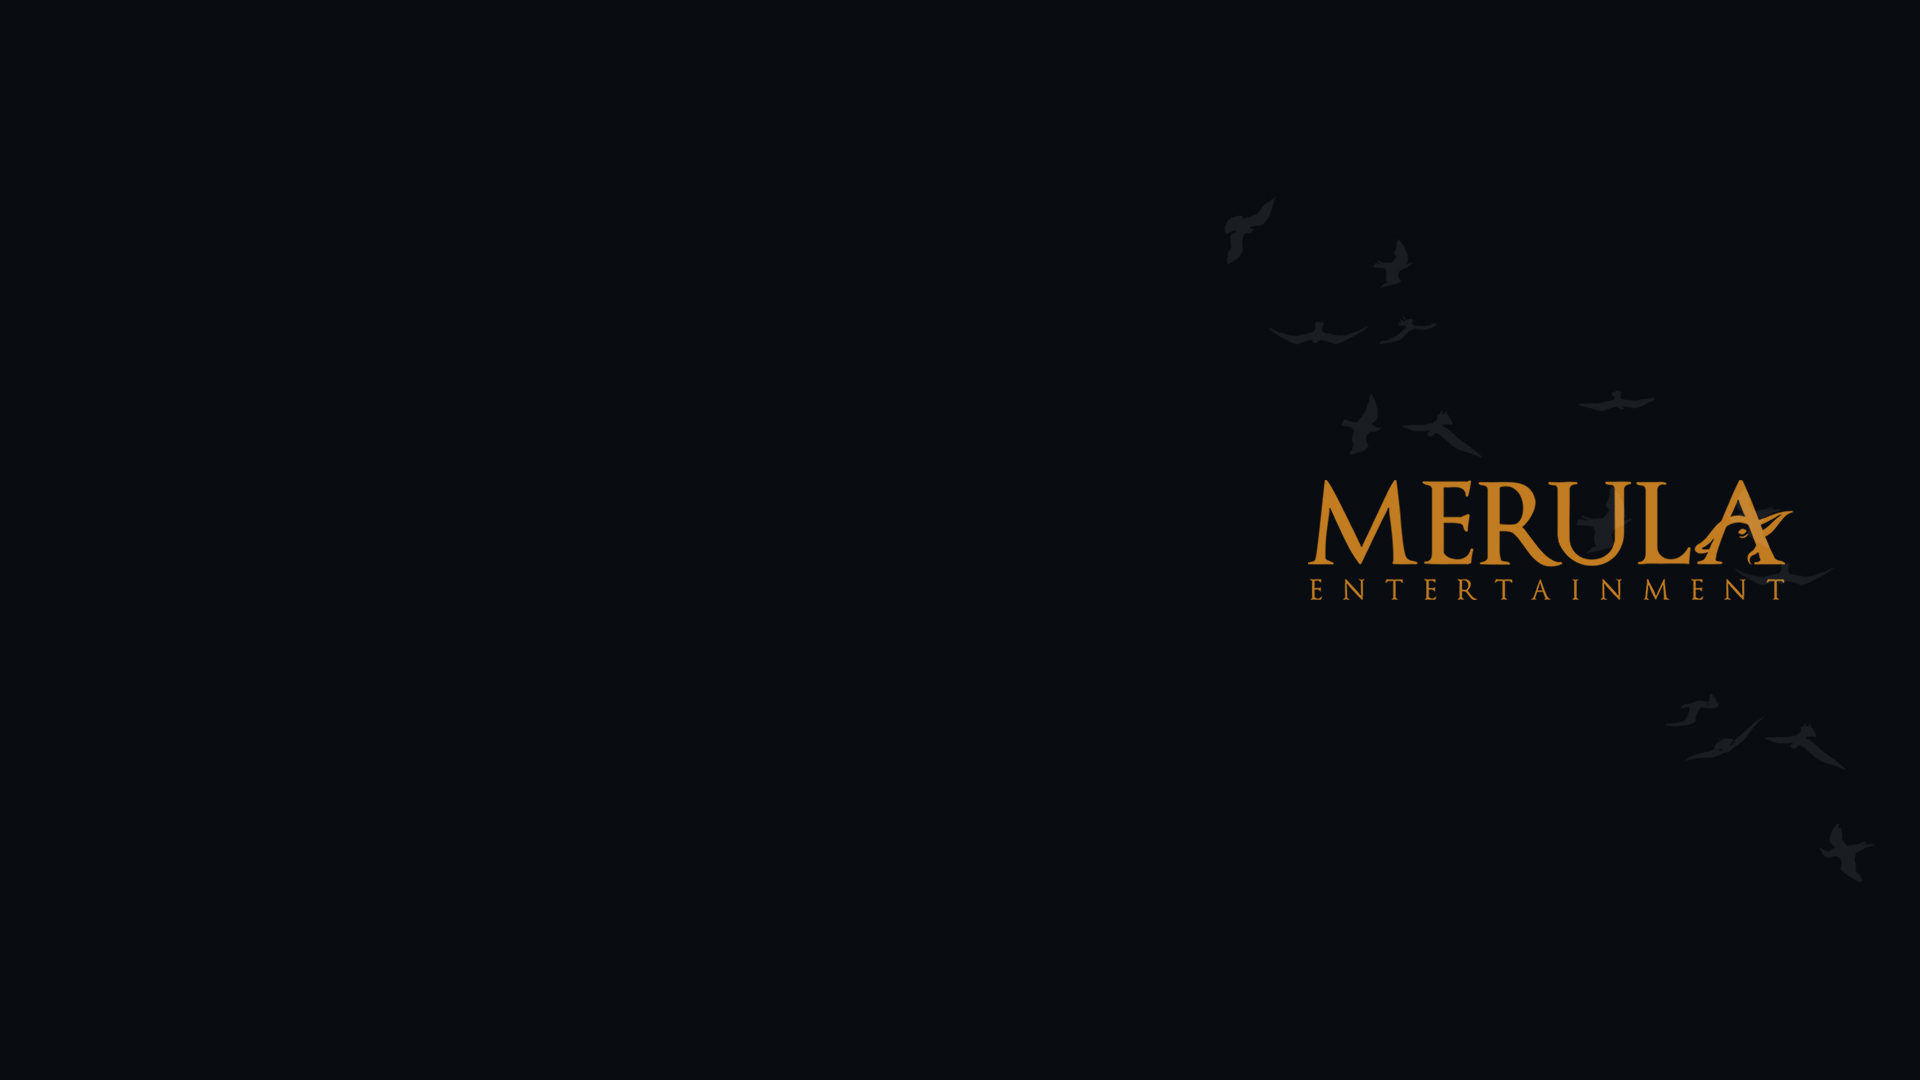
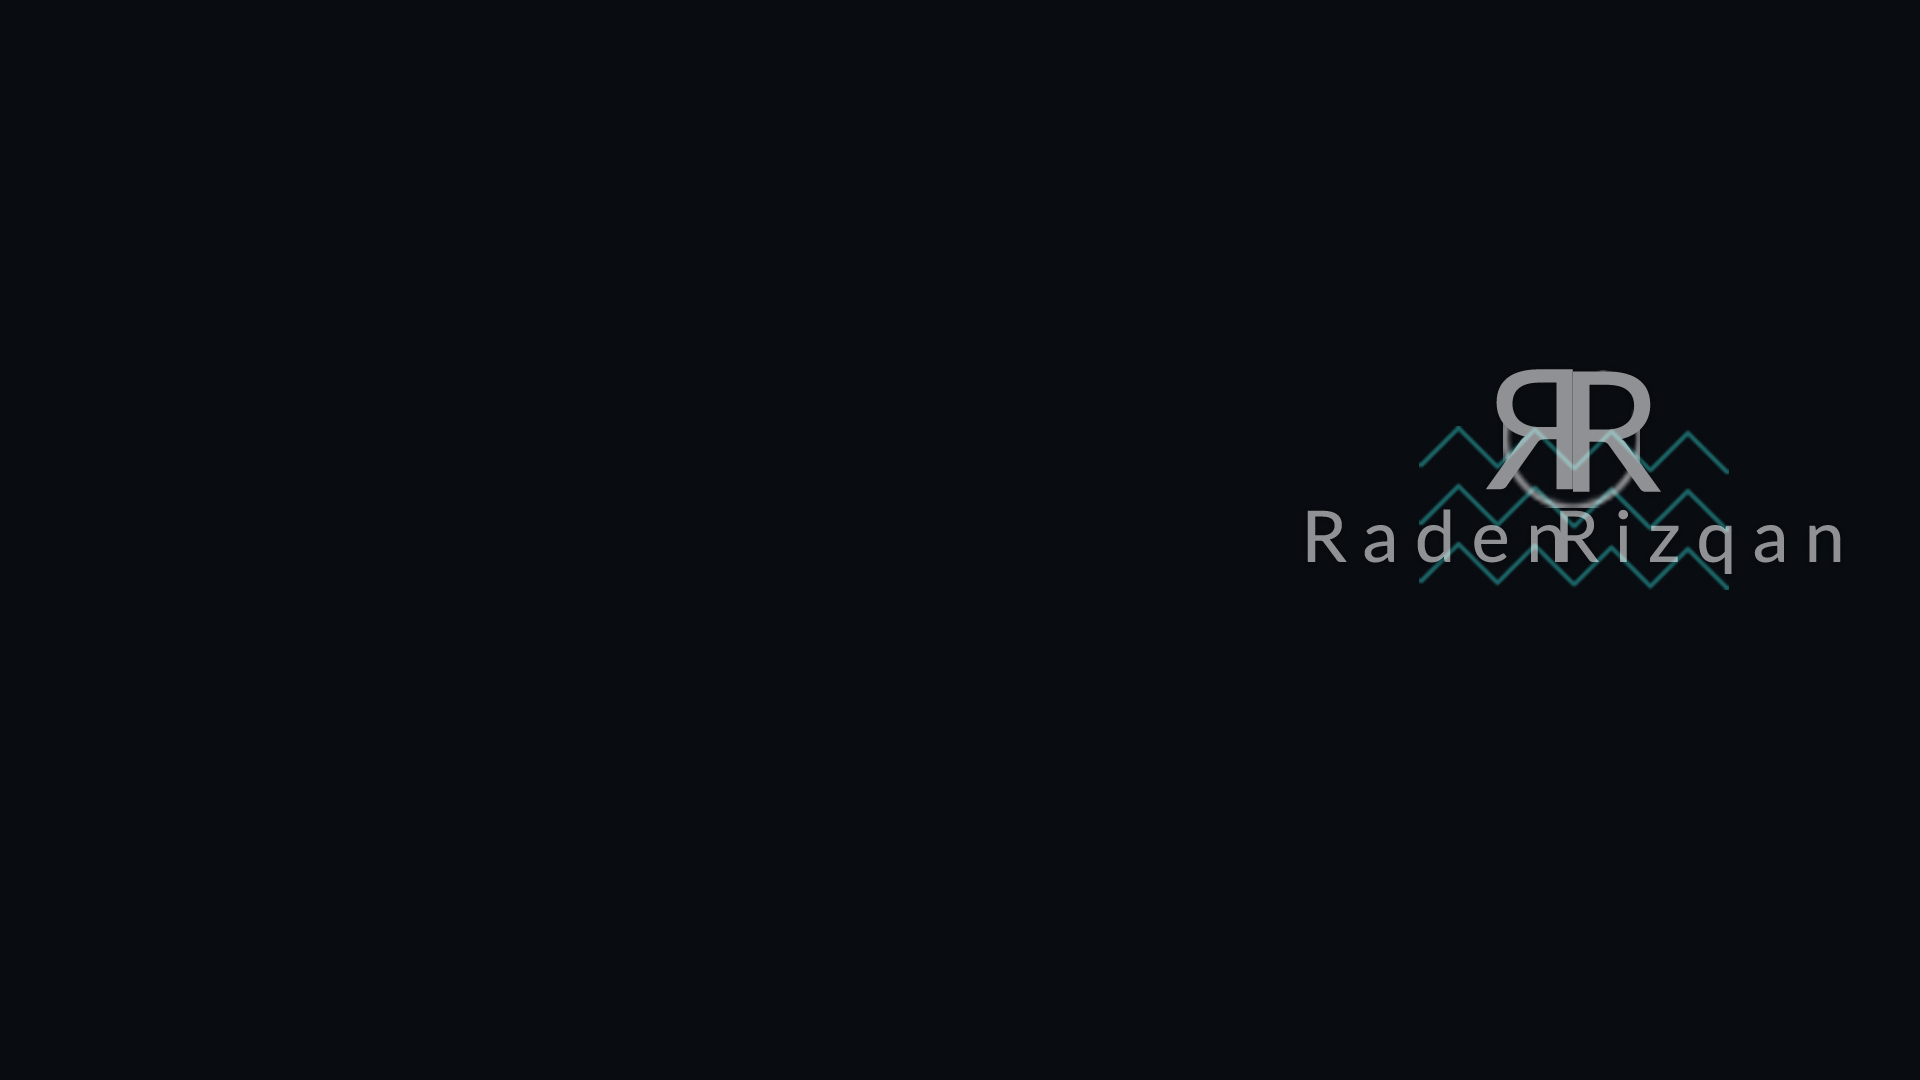
fixyow

Changed region(s): [[0.6562, 0.3361, 0.9688, 0.55]]

diff --git a/assets/css/style.css b/assets/css/style.css
@@ -69,7 +69,7 @@ h2 {
 	font-weight: bold;
 	font-family: 'Lato', serif;
 	color: blue;
-    text-shadow: 2px 2px #c27c21;
+    text-shadow: 2px 2px #249494;
 }
 h3 {
 	font-size: 30px;
@@ -97,7 +97,7 @@ h7 {
 h8 {
 	font-size: 14px;
 	font-style:;
-	color: #c27c21;
+	color: #249494;
 	font-family: 'Lato', serif;
 	line-height: 2em;
 }
@@ -190,14 +190,14 @@ section {
 	border-color: #272727;
 }
 .btn:hover {
-	background: #c27c21;
+	background: #249494;
 	color: #fff;
-	border-color: #c27c21;
+	border-color: #249494;
 }
 .btn-1 {
-	background: #c27c21;
+	background: #249494;
 	color: #fff;
-	border: 1px solid #c27c21;
+	border: 1px solid #249494;
 }
 .btn-1:hover {
 	background: none;
@@ -554,7 +554,7 @@ header nav .ownmenu li {
 	padding: 0 15px;
 }
 header nav li a:hover {
-	color: #c27c21;
+	color: #249494;
 }
 header .ownmenu ul.dropdown {
 	padding-bottom: 0px;
@@ -967,7 +967,11 @@ header .ownmenu .look-book .media-body a {
 	background-size: cover;
 }
 .home-6-style #sec-4 {
-	background: url(../images/bg/bg1.jpg) fixed no-repeat;
+	background: url(../images/bg/bg4.jpg) fixed no-repeat;
+	background-size: cover;
+}
+.home-6-style #sec-6 {
+	background: url(../images/bg/bg2.jpg) fixed no-repeat;
 	background-size: cover;
 }
 .home-6-style .content .huge-txt {
@@ -2027,7 +2031,7 @@ header .ownmenu .look-book .media-body a {
 	height: 100%;
 	width: 100%;
 	padding: 30px;
-	background: rgba(175,88,117,0.9);
+	background: #249494;
 	opacity: 0;
 	text-align: center;
 	-webkit-transition: all 0.4s ease-in-out;
@@ -2058,7 +2062,7 @@ header .ownmenu .look-book .media-body a {
 	margin: 0 5px;
 }
 .port-folio-row li .hover-port a:hover {
-	background: rgba(175,88,117,1);
+	background: #1c2833;
 	color: #fff;
 }
 .portfolio-defult h6 {
@@ -3709,7 +3713,7 @@ footer .flicker img {
 .tittle-cont hr {
 	width: 80px;
 	height: 16px;
-	background: #ffc000;
+	background: #249494;
 	-webkit-transform: skew(-40deg);
 	-moz-transform: skew(-40deg);
 	-o-transform: skew(-40deg);
@@ -4436,18 +4440,18 @@ footer .flicker img {
 	border: none;
 	margin: 0px;
 	background: none;
-	color: #af5875;
-	border-bottom: 2px solid #af5875;
+	color: #249494;
+	border-bottom: 2px solid #249494;
 }
 .portfolio .filter-style-2 a.active {
 	border: none;
-	border-bottom: 2px solid #af5875;
-	color: #af5875;
+	border-bottom: 2px solid #249494;
+	color: #249494;
 }
 .portfolio .filter-style-2 li a:hover {
 	border: none;
-	color: #af5875;
-	border-bottom: 2px solid #af5875;
+	color: #249494;
+	border-bottom: 2px solid #249494;
 }
 /*=======================================================
       TEAM
@@ -6015,12 +6019,12 @@ input:focus {
 	position: fixed;
 	bottom: 40px;
 	right: 40px;
-	color: #c27c21;
+	color: #249494;
 	border-radius: 4px;
 	font-size: 26px;
 	text-align: center;
 	line-height: 40px;
-	border:3px solid #c27c21;
+	border:3px solid #249494;
 	box-shadow: 0 0 10px rgba(0, 0, 0, 0.05);
 	overflow: hidden;
 	white-space: nowrap;
@@ -6049,8 +6053,8 @@ input:focus {
 	opacity: .5;
 }
 .no-touch .cd-top:hover {
-	background-color: #c27c21;
-	background-color: #c27c21;
+	background-color: #249494;
+	background-color: #249494;
 	opacity: 1;
 	color: #fff;
 }

diff --git a/assets/css/main.css b/assets/css/main.css
@@ -28,7 +28,7 @@
 }
 .ball {
 	border-radius: 50%;
-	background: #c27c21;
+	background: #249494;
 	width: 10px;
 	height: 10px;
 	position: absolute;

diff --git a/application/views/layout/content.php b/application/views/layout/content.php
@@ -4,7 +4,7 @@
       <div class="container">
         <div class="position-center-center">
         <div class=" animate fadeInUp" data-wow-delay="0.4s">
-        <div class="tp-caption customin font-playfair tp-resizeme rs-parallaxlevel-4" style="color: #fff; font-size: 80px; font-style:italic; text-shadow: 2px 2px #c27c21;"> 
+        <div class="tp-caption customin font-playfair tp-resizeme rs-parallaxlevel-4" style="color: #fff; font-size: 80px; font-style:italic; text-shadow: 2px 2px #249494;"> 
         Raden Rizqan Fadhilah 
         </div>
         <h1>UI/UX Designer & Front-end Web Developer</h1>
@@ -37,7 +37,7 @@
             </div>
           
           <!-- Image -->
-          <div class="col-sm-5  animate fadeInRight" data-wow-delay="0.4s"> <img class="img-responsive" src="assets/images/cobacobi.jpg" alt="" > </div>
+          <div class="col-sm-5  animate fadeInRight" data-wow-delay="0.4s"> <img class="img-responsive" src="assets/images/candil.png" alt="" > </div>
         </div>
       </div>
     </section>
@@ -59,7 +59,7 @@
           
           <!-- Slider 1 -->
           <div class="testi">
-            <div class="avatar"> <img src="assets/images/avatar-9.jpg" alt=""> </div>
+            <div class="avatar"> <img src="assets/images/avafinnet.jpg" alt=""> </div>
 			      <h1>Web Developer Internship </h1>
             <p class="posi">PT. Finnet Indonesia</p>
             <b>
@@ -74,7 +74,7 @@
           
           <!-- Slider 2 -->
           <div class="testi">
-          <div class="avatar"> <img src="assets/images/avatar-9.jpg" alt=""> </div>
+          <div class="avatar"> <img src="assets/images/avatelc.jpg" alt=""> </div>
           <h1>Laboratory assistant </h1>
           <p class="posi">TEL-C Laboratory, Telkom University</p>
           <b>
@@ -89,7 +89,7 @@
           
           <!-- Slider 3 -->
           <div class="testi">
-          <div class="avatar"> <img src="assets/images/avatar-9.jpg" alt=""> </div>
+          <div class="avatar"> <img src="assets/images/avaico.jpg" alt=""> </div>
           <h1>Student Volunteer Committee</h1>
           <p class="posi">ICoICT 2016</p>
           <b>
@@ -98,7 +98,7 @@
 </b> 
         </div>
         <div class="testi">
-          <div class="avatar"> <img src="assets/images/avatar-9.jpg" alt=""> </div>
+          <div class="avatar"> <img src="assets/images/avadies.jpg" alt=""> </div>
           <h1>Event organizer</h1>
           <p class="posi">DiesNatalis Informatika 2K16</p>
           <b>
@@ -124,29 +124,29 @@
       <ul>
         
         <!--  Item 1 -->
-         <li class="animate fadeInLeft" data-wow-delay="0.6s"> <img src="assets/images/look-img-5.jpg">
+         <li class="animate fadeInLeft" data-wow-delay="0.6s"> <img src="assets/images/kiri.jpg">
           
         </li>
         <!--  Item 2 -->
-        <li class="animate fadeInLeft" data-wow-delay="0.6s"> <img src="assets/images/look-img-2.jpg" alt="" >
+        <li class="animate fadeInLeft" data-wow-delay="0.6s"> <img src="assets/images/smp7.jpg" alt="" >
           <div class="inn-look"> <a href="#.">JUNIOR HIGH SCHOOL</a>
             <hr>2008-2011
             <span>SMP Negeri 7<br> Bandung</span> </div>
         </li>
         <!--  Item 3 -->
-        <li class="animate fadeInUp" data-wow-delay="0.8s"> <img src="assets/images/look-img-3.jpg" alt="" >
+        <li class="animate fadeInUp" data-wow-delay="0.8s"> <img src="assets/images/smunda.jpg" alt="" >
         <div class="inn-look"> <a href="#.">SENIOR HIGH SCHOOL</a>
         <hr>2011-2014
         <span>SMA Negeri 2 <br>Bandung</span> </div>
         </li>
         <!--  Item 4 -->
-        <li class="animate fadeInRight" data-wow-delay="0.4s"> <img src="assets/images/look-img-4.jpg" alt="" >
+        <li class="animate fadeInRight" data-wow-delay="0.4s"> <img src="assets/images/telu.jpg" alt="" >
         <div class="inn-look"> <a href="#.">BACHELOR <br>DEGREE</a>
         <hr>2014-2018
         <span>INFORMATICS<br>Telkom University</span> </div>
         </li>
         <!--  Item 5 -->
-        <li class="animate fadeInRight" data-wow-delay="0.6s"> <img src="assets/images/look-img-5.jpg" alt="" > 
+        <li class="animate fadeInRight" data-wow-delay="0.6s"> <img src="assets/images/kanan.jpg" alt="" > 
         </li>
       </ul>
     </section>
@@ -175,95 +175,95 @@
         <ul class="port-folio-row row col-3 items  animate fadeInUp" data-wow-delay="0.4s">
           
           <!-- Project 1 -->
-          <li class="item int plumb col-sm-3"> <img src="assets/images/construction/project-img-1.jpg" alt=""> 
+          <li class="item int col-sm-3"> <img src="assets/images/dribbble.jpg" alt=""> 
             <!-- Hover Info -->
             <div class="hover-port">
               <div class="position-center-center">
-                <h5>GREEN HOUSE</h5>
+                <h5>Splash Screen.</h5>
                 <hr>
-                <a href="assets/images/construction/project-img-1.jpg" data-lighter><i class="fa fa-search"></i></a> <a href="#."><i class="fa fa-link"></i></a> </div>
+                <a href="assets/images/dribbble.jpg" data-lighter><i class="fa fa-search"></i></a></div>
             </div>
           </li>
           
           <!-- Project 1 -->
-          <li class="item  plumb col-sm-3"> <img src="assets/images/construction/project-img-2.jpg" alt=""> 
+          <li class="item build col-sm-3"> <img src="assets/images/bdg.jpg" alt=""> 
             <!-- Hover Info -->
             <div class="hover-port">
               <div class="position-center-center">
-                <h5>GREEN HOUSE</h5>
+                <h5>Bandungku.</h5>
                 <hr>
-                <a href="assets/images/construction/project-img-2.jpg" data-lighter><i class="fa fa-search"></i></a> <a href="#."><i class="fa fa-link"></i></a> </div>
+                <a href="assets/images/bdg.jpg" data-lighter><i class="fa fa-search"></i></a></div>
             </div>
           </li>
           
           <!-- Project 1 -->
-          <li class="item int plumb col-sm-3"> <img src="assets/images/construction/project-img-3.jpg" alt=""> 
+          <li class="item int col-sm-3"> <img src="assets/images/signup.jpg" alt=""> 
             <!-- Hover Info -->
             <div class="hover-port">
               <div class="position-center-center">
-                <h5>GREEN HOUSE</h5>
+                <h5>SignUp Page.</h5>
                 <hr>
-                <a href="assets/images/construction/project-img-3.jpg" data-lighter><i class="fa fa-search"></i></a> <a href="#."><i class="fa fa-link"></i></a> </div>
+                <a href="assets/images/signup.jpg" data-lighter><i class="fa fa-search"></i></a> </div>
             </div>
           </li>
           
           <!-- Project 1 -->
-          <li class="item  build plumb col-sm-3"> <img src="assets/images/construction/project-img-4.jpg" alt=""> 
+          <li class="item  build col-sm-3"> <img src="assets/images/kuda.jpg" alt=""> 
             <!-- Hover Info -->
             <div class="hover-port">
               <div class="position-center-center">
-                <h5>GREEN HOUSE</h5>
+                <h5>Pagi itu di Yogyakarta.</h5>
                 <hr>
-                <a href="assets/images/construction/project-img-4.jpg" data-lighter><i class="fa fa-search"></i></a> <a href="#."><i class="fa fa-link"></i></a> </div>
+                <a href="assets/images/kuda.jpg" data-lighter><i class="fa fa-search"></i></a> </div>
             </div>
           </li>
           
           <!-- Project 1 -->
-          <li class="item int arch  col-sm-3"> <img src="assets/images/construction/project-img-5.jpg" alt=""> 
+          <li class="item int col-sm-3"> <img src="assets/images/inditkeun.jpg" alt=""> 
             <!-- Hover Info -->
             <div class="hover-port">
               <div class="position-center-center">
-                <h5>GREEN HOUSE</h5>
+                <h5>Inditkeun App.</h5>
                 <hr>
-                <a href="assets/images/construction/project-img-5.jpg" data-lighter><i class="fa fa-search"></i></a> <a href="#."><i class="fa fa-link"></i></a> </div>
+                <a href="assets/images/inditkeun.jpg" data-lighter><i class="fa fa-search"></i></a></div>
             </div>
           </li>
           
           <!-- Project 1 -->
-          <li class="item int arch build col-sm-3"> <img src="assets/images/construction/project-img-6.jpg" alt=""> 
+          <li class="item build col-sm-3"> <img src="assets/images/happy.jpg" alt=""> 
             <!-- Hover Info -->
             <div class="hover-port">
               <div class="position-center-center">
-                <h5>GREEN HOUSE</h5>
+                <h5>Happiness.</h5>
                 <hr>
-                <a href="assets/images/construction/project-img-6.jpg" data-lighter><i class="fa fa-search"></i></a> <a href="#."><i class="fa fa-link"></i></a> </div>
+                <a href="assets/images/happy.jpg" data-lighter><i class="fa fa-search"></i></a>  </div>
             </div>
           </li>
-          <li class="item int arch build col-sm-3"> <img src="assets/images/construction/project-img-6.jpg" alt=""> 
+          <li class="item int col-sm-3"> <img src="assets/images/card.jpg" alt=""> 
             <!-- Hover Info -->
             <div class="hover-port">
               <div class="position-center-center">
-                <h5>GREEN HOUSE</h5>
+                <h5>Credit Card Checkout Page.</h5>
                 <hr>
-                <a href="assets/images/construction/project-img-6.jpg" data-lighter><i class="fa fa-search"></i></a> <a href="#."><i class="fa fa-link"></i></a> </div>
+                <a href="assets/images/card.jpg" data-lighter><i class="fa fa-search"></i></a> </div>
             </div>
           </li>
-          <li class="item int arch build col-sm-3"> <img src="assets/images/construction/project-img-6.jpg" alt=""> 
+          <li class="item build col-sm-3"> <img src="assets/images/helicopter.jpg" alt=""> 
             <!-- Hover Info -->
             <div class="hover-port">
               <div class="position-center-center">
-                <h5>GREEN HOUSE</h5>
+                <h5>Mini Helicopter.</h5>
                 <hr>
-                <a href="assets/images/construction/project-img-6.jpg" data-lighter><i class="fa fa-search"></i></a> <a href="#."><i class="fa fa-link"></i></a> </div>
+                <a href="assets/images/helicopter.jpg" data-lighter><i class="fa fa-search"></i></a> </div>
             </div>
           </li>
-          <li class="item int arch build col-sm-3"> <img src="assets/images/construction/project-img-6.jpg" alt=""> 
+          <li class="item int col-sm-3"> <img src="assets/images/clooper.jpg" alt=""> 
             <!-- Hover Info -->
             <div class="hover-port">
               <div class="position-center-center">
-                <h5>GREEN HOUSE</h5>
+                <h5>Mini Cooper Club Web Design.</h5>
                 <hr>
-                <a href="assets/images/construction/project-img-6.jpg" data-lighter><i class="fa fa-search"></i></a> <a href="#."><i class="fa fa-link"></i></a> </div>
+                <a href="assets/images/clooper.jpg" data-lighter><i class="fa fa-search"></i></a> </div>
             </div>
           </li>
         </ul>
@@ -278,7 +278,7 @@
           <div class="tittle tittle-cont animate fadeInUp" data-wow-delay="0.4s">
             <h2>Let's Talk</h2>
             <hr>
-            <img class="margin-t-40" src="assets/images/sepatu.png" alt="">
+            <img class="margin-t-40" src="assets/images/mail.png" alt="">
             <p>Contact me at <b>ichanfadhil21@gmail.com</b> for project inquiries. I'll gladly work on your project as well!</p>
           </div>
           

diff --git a/application/views/layout/loader.php b/application/views/layout/loader.php
@@ -1,10 +1,10 @@
 <div id="loader">
   <div class="loader">
-    <div class="position-center-center"> <img src="assets/images/merula2.png" alt="">
+    <div class="position-center-center"> <img src="assets/images/logo1.png" alt="">
 	<br>
       <div class="font-playfair text-center"></div>
 	  <br>
-	  <h7> "Seni sama pentingnya dengan matematika. Seni memanusiakan manusia. Seni menciptakan rasa empati" - Wahyu Aditya </h7>
+	  <!-- <h7> "Seni sama pentingnya dengan matematika. Seni memanusiakan manusia. Seni menciptakan rasa empati" - Wahyu Aditya </h7> -->
 	  <br>
       <div class="loading">
         <div class="ball"></div>

diff --git a/application/views/layout/header.php b/application/views/layout/header.php
@@ -13,7 +13,7 @@
           <!-- MENU BUTTON RESPONSIVE -->
           <div class="menu-toggle"> <i class="fa fa-bars"> </i> </div>
           <ul class="ownmenu">
-		  <center><a href="facebook.com"><img src="assets/images/merula3.png"></center>
+		  <center><a href="facebook.com"><img src="assets/images/logo.png"></center>
           <li class="active"><a href=".#">HOME</a>
           </li>
 		  <li class=""><a href="#sec-7">ABOUT</a>
